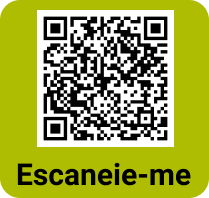
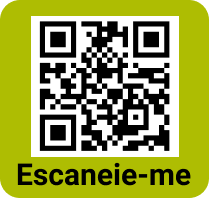
emprestimo corrigido denovo

diff --git a/src/Emprestimo.js b/src/Emprestimo.js
@@ -47,9 +47,9 @@ class Emprestimo extends Component{
                 <div>
                 </div>
                 <div>
-                    <p className = "App-text3"><text className= "App-text1">Como fazer sua solitcitação de empréstimo?</text> Basta você apontar a camera do seu celular para o QRCode abaixo, caso tenha problemas com isso, o link estará disponibilizado abaixo, nele é so selecionar o tipo de empréstimo, preencher os campos com seus dados, que iremos analisar o seu perfil e te reetornar via e-mail em até 3 dias.</p>
+                    <p className = "App-text3"><text className= "App-text1">Como fazer sua solitcitação de empréstimo?</text> Basta apontar a camera do seu celular para o QRCode abaixo, você será apontado diretamente para nosso site de micro crédito do AC7 Pay, simule na hora e já faça seu pedido pelo celular.</p>
                     <img src={QRcode} className="App-QRcode" alt="QRcode" />
-                    <p className = "App-text7"><text className = "App-text6">Link: </text>  https://register.caas.digital/ac7pay</p>
+                    <p className = "App-text7"><text className = "App-text6">Link: </text>  https://ac7pay.caas.digital/</p>
                 </div>
             </div>
         )
